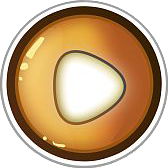
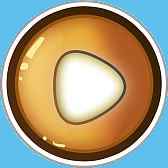
add start button

diff --git a/src/birdsshot/BirdsShot.java b/src/birdsshot/BirdsShot.java
@@ -6,9 +6,7 @@
 package birdsshot;
 
 import java.awt.Container;
-import java.awt.image.BufferedImage;
 import java.util.Timer;
-import javax.imageio.ImageIO;
 import javax.swing.ImageIcon;
 import javax.swing.JFrame;
 
@@ -22,21 +20,21 @@ public class BirdsShot extends JFrame{
     public static final int HEIGHT = 640;//面板高
     
     private int state;//游戏的当前状态
-    private static final int START = 0;
-    private static final int RUNNING = 1;
-    private static final int PAUSE = 2;
-    private static final int GAME_OVER = 3;
+    private static final int START = 0;//开启游戏
+    private static final int RUNNING = 1;//正在游戏
+    private static final int PAUSE = 2;//暂停游戏
+    private static final int GAME_OVER = 3;//游戏失败
     
     private int score = 0;//分数
     private Timer timer;//计时器
     private int interval = 1000/100;//时间间隔（ms)
     
     Container ct;//容器
-    public static Background background;
-    public static BufferedImage start;
-    public static BufferedImage bird;
-    public static BufferedImage gameover;
-    public static BufferedImage aim;
+    public static BackgroundPanel background;
+    public static StartButton start;
+    //public static BufferedImage bird;
+    //public static BufferedImage gameover;
+    //public static BufferedImage aim;
 
     private int bullets =0;//子弹数量
     private int birdNum = 0;//鸟的数量
@@ -44,27 +42,31 @@ public class BirdsShot extends JFrame{
     //初始化图片资源
     static {
         try {
-            start = ImageIO.read(BirdsShot.class.getResource("start.png"));
-            bird = ImageIO.read(BirdsShot.class.getResource("bird.png"));
-            gameover = ImageIO.read(BirdsShot.class.getResource("gameover.png"));
-            aim = ImageIO.read(BirdsShot.class.getResource("aim.png"));
+            background = new BackgroundPanel((new ImageIcon("src/resources/background.jpg")).getImage());
+            start = new StartButton(new ImageIcon("src/resources/start.png"));
+            //bird = ImageIO.read(BirdsShot.class.getResource("bird.png"));
+            //gameover = ImageIO.read(BirdsShot.class.getResource("gameover.png"));
+            //aim = ImageIO.read(BirdsShot.class.getResource("aim.png"));
         }catch(Exception e){
             e.printStackTrace();
         }
     }
     public BirdsShot(){
-        //添加背景图
         ct = this.getContentPane();
-        background = new Background((new ImageIcon("src/resources/background.jpg")).getImage());
-        background.setBounds(0, 0, 1000, 620);
-        ct.add(background);
+        this.setLayout(null);
         
+        //初始化界面，添加背景和开始按钮
         this.setSize(WIDTH, HEIGHT);
         this.setLocationRelativeTo(null);  
         this.setTitle("JavaGame-BirdsShot");  
         this.setDefaultCloseOperation(JFrame.EXIT_ON_CLOSE);
         this.setIconImage(new ImageIcon("src/resources/icon.png").getImage());
-        this.setVisible(true); 
+        this.setVisible(true);
+        ct.add(background);
+        ct.add(start); 
+        
+        //设置游戏状态为初始状态
+        this.state = START;
     }
 
     /**

diff --git a/src/birdsshot/BackgroundPanel.java b/src/birdsshot/BackgroundPanel.java
@@ -1,0 +1,30 @@
+/*
+ * To change this license header, choose License Headers in Project Properties.
+ * To change this template file, choose Tools | Templates
+ * and open the template in the editor.
+ */
+package birdsshot;
+
+import java.awt.Graphics;
+import java.awt.Image;
+import javax.swing.JPanel;
+
+/**
+ *
+ * @author 祥
+ */
+public class BackgroundPanel extends JPanel{
+    
+    Image bg;  
+    
+    public BackgroundPanel(Image bg){  
+        this.bg = bg;  
+        this.setOpaque(true);
+        this.setBounds(0, 0, 1000, 600);
+    }  
+   
+    public void paintComponent(Graphics g){  
+        super.paintComponents(g);  
+        g.drawImage(bg,0,0,this.getWidth(),this.getHeight(),this);
+    }
+}

diff --git a/src/birdsshot/StartButton.java b/src/birdsshot/StartButton.java
@@ -1,0 +1,25 @@
+/*
+ * To change this license header, choose License Headers in Project Properties.
+ * To change this template file, choose Tools | Templates
+ * and open the template in the editor.
+ */
+package birdsshot;
+
+import javax.swing.ImageIcon;
+import javax.swing.JButton;
+
+/**
+ *
+ * @author 祥
+ */
+public class StartButton extends JButton{
+    
+    ImageIcon im;
+    
+    public StartButton(ImageIcon im){
+        this.im = im;
+        this.setBounds(410, 260, 168, 168);
+        this.setBorderPainted(false);
+        this.setIcon(im);
+    }   
+}
